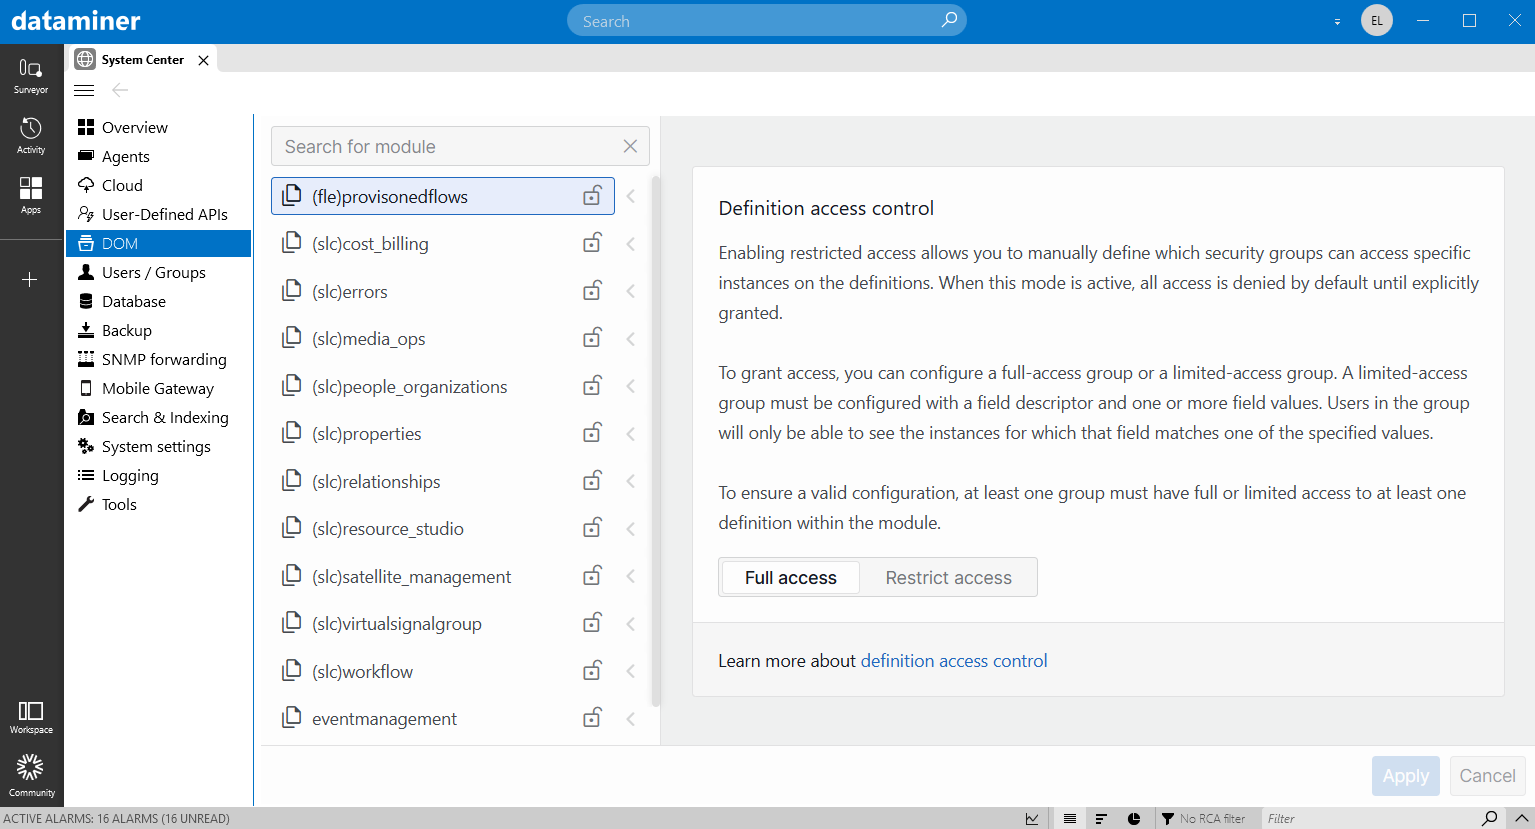
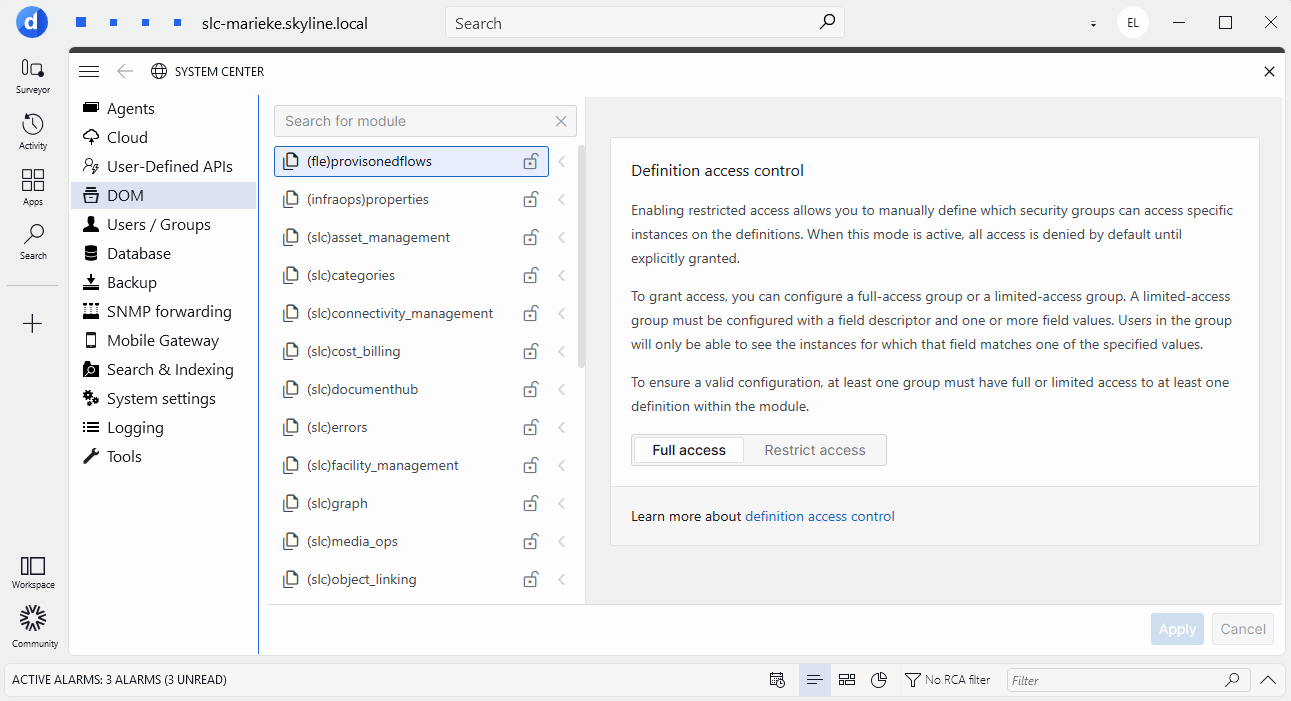
RN 45886

diff --git a/dataminer/Functions/DOM/DOM_security_configuration.md b/dataminer/Functions/DOM/DOM_security_configuration.md
@@ -8,7 +8,7 @@ uid: DOM_security_ui
 
 From DataMiner 10.5.11/10.6.0 onwards<!--RN 43622-->, you can configure definition-level security settings for DOM. From DataMiner 10.5.0 [CU12]/10.6.3 onwards<!--RN 44385-->, you can also configure security at DOM instance level. In the background, this will make use of the [link security](xref:DOM_security#link-security) feature.
 
-![Configuring DOM security](~/dataminer/images/DOMSecurityApp.png)<br>*Configuring DOM security in DataMiner 10.6.3*
+![Configuring DOM security](~/dataminer/images/DOMSecurityApp.png)<br>*Configuring DOM security in DataMiner 10.6.9*
 
 ## Accessing the DOM security UI
 
@@ -28,6 +28,44 @@ The UI displays all available DOM modules in a list on the left, with a filter b
 By default, all users will have full access to all DOM modules, which means that they will all be allowed to create, read, update, and delete DOM definitions in all available DOM modules.
 
 To restrict access for specific definitions and their instances:
+
+### [From DataMiner 10.5.0 [CU18]/10.6.0 [CU6]/10.6.9 onwards<!--RN 45886-->](#tab/tabid-1)
+
+1. Select a module and switch to *Restrict access* with the button on the right.
+
+   At this point, no one will have access to the definitions in the module. The list of DOM definitions within the module will expand so you can select a definition.
+
+1. Select the definition for which you want to configure access.
+
+   A table appears showing the groups that have access to the selected definition. By default, the table is empty because no groups have access yet.
+
+1. In the upper-right corner, click *+ Add groups* and select the groups that should have access to the definition.
+
+   The selected groups are added to the table with *Full* access by default. This means group members can read, update, and delete the definition and all associated DOM instances.
+
+   ![Example: Groups with access to "Property Values" definition](~/dataminer/images/DOM_Security.png)<br>*Configuring DOM security in DataMiner 10.6.9*
+
+1. Optionally, to limit a group's access to specific DOM instances:
+
+   1. In the *Condition* column, click *Add condition*.
+
+   1. Select a field descriptor.
+
+   1. Specify the value(s) the field must contain.
+
+   When a condition is configured, the group's access level automatically changes from *Full* to *Limited*.
+
+   With *Limited* access, the group can only access DOM instances that contain the specified values in the selected `DomInstanceFieldDescriptor` fields.
+
+1. Optionally, enable the *Read-only* toggle if group members should only be able to view the definition and the DOM instances they can access.
+
+1. Repeat this for each definition users should have access to.
+
+1. In the lower-right corner, click *Apply* to save your changes.
+
+   If the *Apply* button is not available yet, this means that at least one DOM module still has invalid settings. To correct this, make sure that for each module at least one user group has full access to at least one definition in that module.
+
+### [Earlier versions](#tab/tabid-2)
 
 1. Select a module, and switch to *Restrict access* with the button on the right.
 
@@ -56,6 +94,8 @@ To restrict access for specific definitions and their instances:
 1. In the lower-right corner, click *Apply* to save your changes.
 
    If the *Apply* button is not available yet, this means that at least one DOM module still has invalid settings. To correct this, make sure that for each module at least one user group has full access to at least one definition in that module.
+
+***
 
 > [!NOTE]
 > When changes are applied to the security configuration of a DOM module, that module will be reinitialized.
